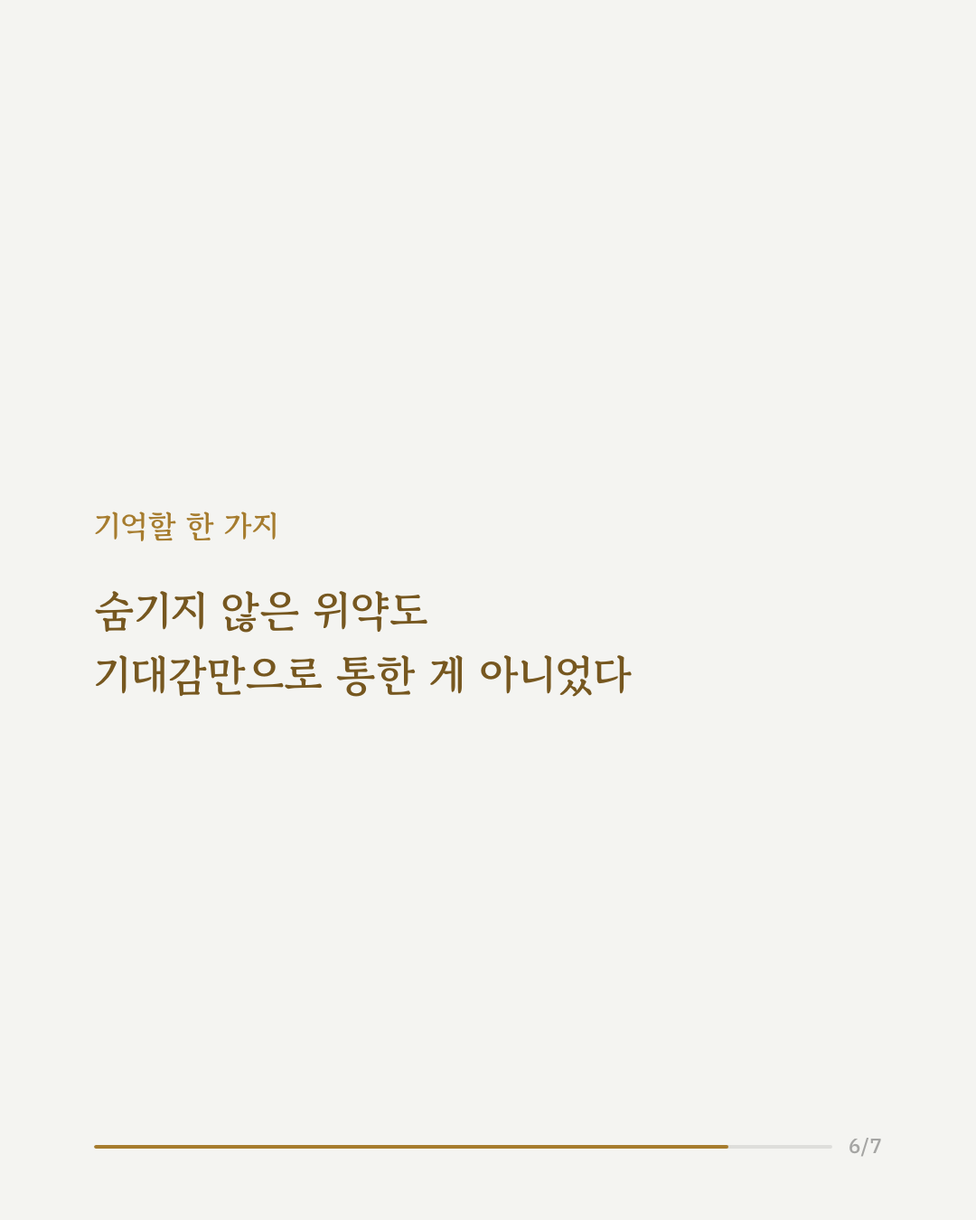
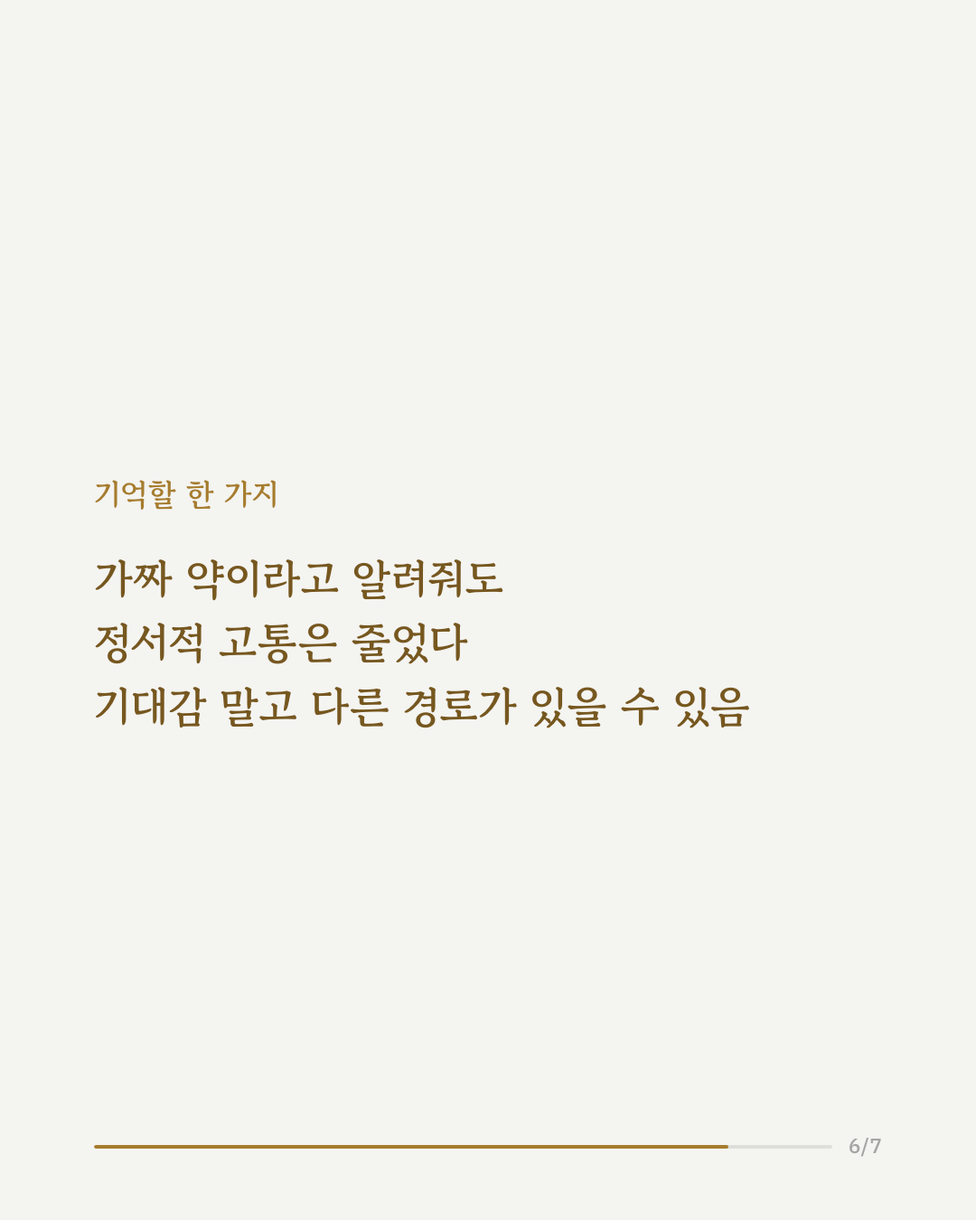
cards: review fixes

Changed region(s): [[0.0917, 0.3733, 0.7639, 0.5911]]

diff --git a/index.html b/index.html
@@ -9,4 +9,4 @@ a{font-size:18px;color:#8a3c24;text-decoration:none;display:block}
 .reel{background:#efe5d3;border:1px solid #e4d8c2;border-radius:8px;padding:12px 14px;margin-bottom:16px;font-size:14px}
 .reel a{display:inline;font-size:14px}
 code{background:#efe5d3;padding:2px 6px;border-radius:4px;user-select:all}</style></head><body>
-<h1>검수 대기열 (22)</h1><div class="reel">🎬 릴스 초안 대기 — <a href="41421461/reel.html">41421461 영상 보기</a> · 폰 앱에서 업로드(트렌딩 사운드)</div><ul><li><a href="41421461/preview.html">중독 겹쳤어도<br>약물치료 효과</a><span class="m">임상심리 · 9장 · <a href="https://pubmed.ncbi.nlm.nih.gov/41421461/" target="_blank" rel="noopener">PubMed</a> · <a href="https://doi.org/10.1016/j.jaac.2025.12.003" target="_blank" rel="noopener">원문(DOI)</a> · <code>python3 publish.py 41421461</code></span></li><li><a href="42087350/preview.html">정신과 이력과<br>산후우울증</a><span class="m">임상심리 · 10장 · <a href="https://pubmed.ncbi.nlm.nih.gov/42087350/" target="_blank" rel="noopener">PubMed</a> · <a href="https://doi.org/10.1192/bjp.2021.222" target="_blank" rel="noopener">원문(DOI)</a> · <code>python3 publish.py 42087350</code></span></li><li><a href="42231081/preview.html">니코틴 중독은<br>회로 하나로 통한다</a><span class="m">신경영상 · 9장 · <a href="https://pubmed.ncbi.nlm.nih.gov/42231081/" target="_blank" rel="noopener">PubMed</a> · <a href="https://doi.org/10.1016/j.drugalcdep.2019.07.001" target="_blank" rel="noopener">원문(DOI)</a> · <code>python3 publish.py 42231081</code></span></li><li><a href="42413809/preview.html">치료 반응을<br>뇌가 먼저 안다</a><span class="m">신경영상 · 9장 · <a href="https://pubmed.ncbi.nlm.nih.gov/42413809/" target="_blank" rel="noopener">PubMed</a> · <a href="https://doi.org/10.1016/j.biopsych.2026.06.027" target="_blank" rel="noopener">원문(DOI)</a> · <code>python3 publish.py 42413809</code></span></li><li><a href="42643655/preview.html">저녁형이면<br>우울도 높았다</a><span class="m">흥미기타 · 9장 · <a href="https://pubmed.ncbi.nlm.nih.gov/42643655/" target="_blank" rel="noopener">PubMed</a> · <a href="https://doi.org/10.3390/clockssleep7020026" target="_blank" rel="noopener">원문(DOI)</a> · <code>python3 publish.py 42643655</code></span></li><li><a href="42649240/preview.html">숨기지 않아도<br>듣는 위약효과</a><span class="m">흥미기타 · 8장 · <a href="https://pubmed.ncbi.nlm.nih.gov/42649240/" target="_blank" rel="noopener">PubMed</a> · <a href="https://doi.org/10.1038/s41598-024-79039-1" target="_blank" rel="noopener">원문(DOI)</a> · <code>python3 publish.py 42649240</code></span></li><li><a href="42660392/preview.html">생성형 AI<br>사용의 4가지 양상</a><span class="m">흥미기타 · 9장 · <a href="https://pubmed.ncbi.nlm.nih.gov/42660392/" target="_blank" rel="noopener">PubMed</a> · <a href="https://doi.org/10.1016/j.jad.2026.122428" target="_blank" rel="noopener">원문(DOI)</a> · <code>python3 publish.py 42660392</code></span></li><li><a href="42668096/preview.html">자살 시도<br>직전의 신호</a><span class="m">자해자살 · 10장 · <a href="https://pubmed.ncbi.nlm.nih.gov/42668096/" target="_blank" rel="noopener">PubMed</a> · <a href="https://doi.org/10.1016/j.jad.2026.122412" target="_blank" rel="noopener">원문(DOI)</a> · <code>python3 publish.py 42668096</code></span></li><li><a href="42712180/preview.html">PTSD 치료법<br>두 가지 비교</a><span class="m">임상심리 · 8장 · <a href="https://pubmed.ncbi.nlm.nih.gov/42712180/" target="_blank" rel="noopener">PubMed</a> · <a href="https://doi.org/10.1080/20008066.2026.2709751" target="_blank" rel="noopener">원문(DOI)</a> · <code>python3 publish.py 42712180</code></span></li><li><a href="42742576/preview.html">같은 정신증도<br>원인은 다르다</a><span class="m">임상심리 · 8장 · <a href="https://pubmed.ncbi.nlm.nih.gov/42742576/" target="_blank" rel="noopener">PubMed</a> · <a href="https://doi.org/10.1192/bjp.2024.175" target="_blank" rel="noopener">원문(DOI)</a> · <code>python3 publish.py 42742576</code></span></li><li><a href="42748514/preview.html">외모 비교를<br>끊어봤더니</a><span class="m">임상심리 · 9장 · <a href="https://pubmed.ncbi.nlm.nih.gov/42748514/" target="_blank" rel="noopener">PubMed</a> · <a href="https://doi.org/10.1016/j.brat.2026.105155" target="_blank" rel="noopener">원문(DOI)</a> · <code>python3 publish.py 42748514</code></span></li><li><a href="42754240/preview.html">돌봄이 달라지면<br>폭력이 줄었다</a><span class="m">임상심리 · 9장 · <a href="https://pubmed.ncbi.nlm.nih.gov/42754240/" target="_blank" rel="noopener">PubMed</a> · <a href="https://doi.org/10.1111/jcpp.70241" target="_blank" rel="noopener">원문(DOI)</a> · <code>python3 publish.py 42754240</code></span></li><li><a href="42759616/preview.html">우울증 약을<br>게임이 도왔다</a><span class="m">임상심리 · 10장 · <a href="https://pubmed.ncbi.nlm.nih.gov/42759616/" target="_blank" rel="noopener">PubMed</a> · <a href="https://doi.org/10.1016/j.jad.2026.122494" target="_blank" rel="noopener">원문(DOI)</a> · <code>python3 publish.py 42759616</code></span></li><li><a href="42766476/preview.html">진짜 진료실에서<br>노출치료 해보니</a><span class="m">임상심리 · 9장 · <a href="https://pubmed.ncbi.nlm.nih.gov/42766476/" target="_blank" rel="noopener">PubMed</a> · <a href="https://doi.org/10.1080/20008066.2026.2699492" target="_blank" rel="noopener">원문(DOI)</a> · <code>python3 publish.py 42766476</code></span></li><li><a href="42768792/preview.html">부모 교육<br>둘 다 잡는다</a><span class="m">임상심리 · 9장 · <a href="https://pubmed.ncbi.nlm.nih.gov/42768792/" target="_blank" rel="noopener">PubMed</a> · <a href="https://doi.org/10.1017/S0954579426101850" target="_blank" rel="noopener">원문(DOI)</a> · <code>python3 publish.py 42768792</code></span></li><li><a href="42773864/preview.html">위탁 양육이<br>지켜낸 집중력</a><span class="m">임상심리 · 9장 · <a href="https://pubmed.ncbi.nlm.nih.gov/42773864/" target="_blank" rel="noopener">PubMed</a> · <a href="https://doi.org/10.1017/S0954579426101928" target="_blank" rel="noopener">원문(DOI)</a> · <code>python3 publish.py 42773864</code></span></li><li><a href="42777181/preview.html">신경성 성격<br>6주 만에 바뀐다</a><span class="m">임상심리 · 9장 · <a href="https://pubmed.ncbi.nlm.nih.gov/42777181/" target="_blank" rel="noopener">PubMed</a> · <a href="https://doi.org/10.1177/09567976261476962" target="_blank" rel="noopener">원문(DOI)</a> · <code>python3 publish.py 42777181</code></span></li><li><a href="42778032/preview.html">직장인 스트레스,<br>명상으로 줄었다</a><span class="m">임상심리 · 9장 · <a href="https://pubmed.ncbi.nlm.nih.gov/42778032/" target="_blank" rel="noopener">PubMed</a> · <a href="https://doi.org/10.1016/j.jad.2026.122555" target="_blank" rel="noopener">원문(DOI)</a> · <code>python3 publish.py 42778032</code></span></li><li><a href="42778581/preview.html">덜 힘들었던<br>사람들의 뇌</a><span class="m">신경영상 · 10장 · <a href="https://pubmed.ncbi.nlm.nih.gov/42778581/" target="_blank" rel="noopener">PubMed</a> · <a href="https://doi.org/10.1016/j.apnu.2016.07.014" target="_blank" rel="noopener">원문(DOI)</a> · <code>python3 publish.py 42778581</code></span></li><li><a href="42779473/preview.html">위험한 생각의<br>세 갈래 길</a><span class="m">자해자살 · 10장 · <a href="https://pubmed.ncbi.nlm.nih.gov/42779473/" target="_blank" rel="noopener">PubMed</a> · <a href="https://doi.org/10.1017/S0033291726105716" target="_blank" rel="noopener">원문(DOI)</a> · <code>python3 publish.py 42779473</code></span></li><li><a href="42785384/preview.html">망상은 뇌의<br>어디서 생기나</a><span class="m">신경영상 · 9장 · <a href="https://pubmed.ncbi.nlm.nih.gov/42785384/" target="_blank" rel="noopener">PubMed</a> · <a href="https://doi.org/10.1016/j.jad.2026.122534" target="_blank" rel="noopener">원문(DOI)</a> · <code>python3 publish.py 42785384</code></span></li><li><a href="42787645/preview.html">9개월 이상<br>장기 정신역동치료</a><span class="m">임상심리 · 9장 · <a href="https://pubmed.ncbi.nlm.nih.gov/42787645/" target="_blank" rel="noopener">PubMed</a> · <a href="https://doi.org/10.32872/cpe.11971" target="_blank" rel="noopener">원문(DOI)</a> · <code>python3 publish.py 42787645</code></span></li></ul></body></html>
+<h1>검수 대기열 (22)</h1><div class="reel">🎬 릴스 초안 대기 — <a href="41421461/reel.html">41421461 영상 보기</a> · 폰 앱에서 업로드(트렌딩 사운드)</div><ul><li><a href="41421461/preview.html">중독 겹쳤어도<br>약물치료 효과</a><span class="m">임상심리 · 9장 · <a href="https://pubmed.ncbi.nlm.nih.gov/41421461/" target="_blank" rel="noopener">PubMed</a> · <a href="https://doi.org/10.1016/j.jaac.2025.12.003" target="_blank" rel="noopener">원문(DOI)</a> · <code>python3 publish.py 41421461</code></span></li><li><a href="42087350/preview.html">정신과 이력과<br>산후우울증</a><span class="m">임상심리 · 10장 · <a href="https://pubmed.ncbi.nlm.nih.gov/42087350/" target="_blank" rel="noopener">PubMed</a> · <a href="https://doi.org/10.1192/bjp.2021.222" target="_blank" rel="noopener">원문(DOI)</a> · <code>python3 publish.py 42087350</code></span></li><li><a href="42231081/preview.html">니코틴 중독은<br>회로 하나로 통한다</a><span class="m">신경영상 · 9장 · <a href="https://pubmed.ncbi.nlm.nih.gov/42231081/" target="_blank" rel="noopener">PubMed</a> · <a href="https://doi.org/10.1016/j.drugalcdep.2019.07.001" target="_blank" rel="noopener">원문(DOI)</a> · <code>python3 publish.py 42231081</code></span></li><li><a href="42413809/preview.html">치료 반응을<br>뇌가 먼저 안다</a><span class="m">신경영상 · 9장 · <a href="https://pubmed.ncbi.nlm.nih.gov/42413809/" target="_blank" rel="noopener">PubMed</a> · <a href="https://doi.org/10.1016/j.biopsych.2026.06.027" target="_blank" rel="noopener">원문(DOI)</a> · <code>python3 publish.py 42413809</code></span></li><li><a href="42643655/preview.html">저녁형이면<br>우울도 높았다</a><span class="m">흥미기타 · 9장 · <a href="https://pubmed.ncbi.nlm.nih.gov/42643655/" target="_blank" rel="noopener">PubMed</a> · <a href="https://doi.org/10.3390/clockssleep7020026" target="_blank" rel="noopener">원문(DOI)</a> · <code>python3 publish.py 42643655</code></span></li><li><a href="42649240/preview.html">숨기지 않아도 듣는<br>위약(플라시보) 효과</a><span class="m">흥미기타 · 8장 · <a href="https://pubmed.ncbi.nlm.nih.gov/42649240/" target="_blank" rel="noopener">PubMed</a> · <a href="https://doi.org/10.1038/s41598-024-79039-1" target="_blank" rel="noopener">원문(DOI)</a> · <code>python3 publish.py 42649240</code></span></li><li><a href="42660392/preview.html">생성형 AI<br>사용의 4가지 양상</a><span class="m">흥미기타 · 9장 · <a href="https://pubmed.ncbi.nlm.nih.gov/42660392/" target="_blank" rel="noopener">PubMed</a> · <a href="https://doi.org/10.1016/j.jad.2026.122428" target="_blank" rel="noopener">원문(DOI)</a> · <code>python3 publish.py 42660392</code></span></li><li><a href="42668096/preview.html">자살 시도<br>직전의 신호</a><span class="m">자해자살 · 10장 · <a href="https://pubmed.ncbi.nlm.nih.gov/42668096/" target="_blank" rel="noopener">PubMed</a> · <a href="https://doi.org/10.1016/j.jad.2026.122412" target="_blank" rel="noopener">원문(DOI)</a> · <code>python3 publish.py 42668096</code></span></li><li><a href="42712180/preview.html">PTSD 치료법<br>두 가지 비교</a><span class="m">임상심리 · 8장 · <a href="https://pubmed.ncbi.nlm.nih.gov/42712180/" target="_blank" rel="noopener">PubMed</a> · <a href="https://doi.org/10.1080/20008066.2026.2709751" target="_blank" rel="noopener">원문(DOI)</a> · <code>python3 publish.py 42712180</code></span></li><li><a href="42742576/preview.html">같은 정신증도<br>원인은 다르다</a><span class="m">임상심리 · 8장 · <a href="https://pubmed.ncbi.nlm.nih.gov/42742576/" target="_blank" rel="noopener">PubMed</a> · <a href="https://doi.org/10.1192/bjp.2024.175" target="_blank" rel="noopener">원문(DOI)</a> · <code>python3 publish.py 42742576</code></span></li><li><a href="42748514/preview.html">외모 비교를<br>끊어봤더니</a><span class="m">임상심리 · 9장 · <a href="https://pubmed.ncbi.nlm.nih.gov/42748514/" target="_blank" rel="noopener">PubMed</a> · <a href="https://doi.org/10.1016/j.brat.2026.105155" target="_blank" rel="noopener">원문(DOI)</a> · <code>python3 publish.py 42748514</code></span></li><li><a href="42754240/preview.html">돌봄이 달라지면<br>폭력이 줄었다</a><span class="m">임상심리 · 9장 · <a href="https://pubmed.ncbi.nlm.nih.gov/42754240/" target="_blank" rel="noopener">PubMed</a> · <a href="https://doi.org/10.1111/jcpp.70241" target="_blank" rel="noopener">원문(DOI)</a> · <code>python3 publish.py 42754240</code></span></li><li><a href="42759616/preview.html">우울증 약을<br>게임이 도왔다</a><span class="m">임상심리 · 10장 · <a href="https://pubmed.ncbi.nlm.nih.gov/42759616/" target="_blank" rel="noopener">PubMed</a> · <a href="https://doi.org/10.1016/j.jad.2026.122494" target="_blank" rel="noopener">원문(DOI)</a> · <code>python3 publish.py 42759616</code></span></li><li><a href="42766476/preview.html">진짜 진료실에서<br>노출치료 해보니</a><span class="m">임상심리 · 9장 · <a href="https://pubmed.ncbi.nlm.nih.gov/42766476/" target="_blank" rel="noopener">PubMed</a> · <a href="https://doi.org/10.1080/20008066.2026.2699492" target="_blank" rel="noopener">원문(DOI)</a> · <code>python3 publish.py 42766476</code></span></li><li><a href="42768792/preview.html">부모 교육<br>둘 다 잡는다</a><span class="m">임상심리 · 9장 · <a href="https://pubmed.ncbi.nlm.nih.gov/42768792/" target="_blank" rel="noopener">PubMed</a> · <a href="https://doi.org/10.1017/S0954579426101850" target="_blank" rel="noopener">원문(DOI)</a> · <code>python3 publish.py 42768792</code></span></li><li><a href="42773864/preview.html">위탁 양육이<br>지켜낸 집중력</a><span class="m">임상심리 · 9장 · <a href="https://pubmed.ncbi.nlm.nih.gov/42773864/" target="_blank" rel="noopener">PubMed</a> · <a href="https://doi.org/10.1017/S0954579426101928" target="_blank" rel="noopener">원문(DOI)</a> · <code>python3 publish.py 42773864</code></span></li><li><a href="42777181/preview.html">신경성 성격<br>6주 만에 바뀐다</a><span class="m">임상심리 · 9장 · <a href="https://pubmed.ncbi.nlm.nih.gov/42777181/" target="_blank" rel="noopener">PubMed</a> · <a href="https://doi.org/10.1177/09567976261476962" target="_blank" rel="noopener">원문(DOI)</a> · <code>python3 publish.py 42777181</code></span></li><li><a href="42778032/preview.html">직장인 스트레스,<br>명상으로 줄었다</a><span class="m">임상심리 · 9장 · <a href="https://pubmed.ncbi.nlm.nih.gov/42778032/" target="_blank" rel="noopener">PubMed</a> · <a href="https://doi.org/10.1016/j.jad.2026.122555" target="_blank" rel="noopener">원문(DOI)</a> · <code>python3 publish.py 42778032</code></span></li><li><a href="42778581/preview.html">덜 힘들었던<br>사람들의 뇌</a><span class="m">신경영상 · 10장 · <a href="https://pubmed.ncbi.nlm.nih.gov/42778581/" target="_blank" rel="noopener">PubMed</a> · <a href="https://doi.org/10.1016/j.apnu.2016.07.014" target="_blank" rel="noopener">원문(DOI)</a> · <code>python3 publish.py 42778581</code></span></li><li><a href="42779473/preview.html">위험한 생각의<br>세 갈래 길</a><span class="m">자해자살 · 10장 · <a href="https://pubmed.ncbi.nlm.nih.gov/42779473/" target="_blank" rel="noopener">PubMed</a> · <a href="https://doi.org/10.1017/S0033291726105716" target="_blank" rel="noopener">원문(DOI)</a> · <code>python3 publish.py 42779473</code></span></li><li><a href="42785384/preview.html">망상은 뇌의<br>어디서 생기나</a><span class="m">신경영상 · 9장 · <a href="https://pubmed.ncbi.nlm.nih.gov/42785384/" target="_blank" rel="noopener">PubMed</a> · <a href="https://doi.org/10.1016/j.jad.2026.122534" target="_blank" rel="noopener">원문(DOI)</a> · <code>python3 publish.py 42785384</code></span></li><li><a href="42787645/preview.html">9개월 이상<br>장기 정신역동치료</a><span class="m">임상심리 · 9장 · <a href="https://pubmed.ncbi.nlm.nih.gov/42787645/" target="_blank" rel="noopener">PubMed</a> · <a href="https://doi.org/10.32872/cpe.11971" target="_blank" rel="noopener">원문(DOI)</a> · <code>python3 publish.py 42787645</code></span></li></ul></body></html>

diff --git a/42643655/preview.html b/42643655/preview.html
@@ -15,6 +15,6 @@ details{color:#cbbfb4} summary{cursor:pointer}
 <div class="top"><span>저녁형이면 우울도 높았다</span><span>9장 · 흥미기타</span></div>
 <div class="gal"><img src="01.png" alt="슬라이드 1" loading="lazy"><img src="02.png" alt="슬라이드 2" loading="lazy"><img src="03.png" alt="슬라이드 3" loading="lazy"><img src="04.png" alt="슬라이드 4" loading="lazy"><img src="05.png" alt="슬라이드 5" loading="lazy"><img src="06.png" alt="슬라이드 6" loading="lazy"><img src="07.png" alt="슬라이드 7" loading="lazy"><img src="08.png" alt="슬라이드 8" loading="lazy"><img src="09.png" alt="슬라이드 9" loading="lazy"></div>
 <div class="bot">
-<details><summary>캡션 보기</summary><p style="font-size:13px;line-height:1.6">아침형이냐 저녁형이냐, 그리고 평일과 주말의 생활 리듬이 얼마나 다른지가 우울증과 불안, 스트레스와 관련 있다는 연구 결과가 나왔습니다. 대학생 734명을 대상으로 진행된 이번 연구는 기상·취침 시간, 식사 시간, 아침 결식 여부까지 폭넓게 조사했습니다.  분석 결과 평일과 주말의 수면 시간 차이, 이른바 사회적 시차가 1시간 늘어날 때마다 우울, 불안, 스트레스 위험이 함께 높아지는 것으로 나타났습니다. 저녁형 성향인 학생은 그렇지 않은 학생보다 우울 위험이 1.9배 가까이 높았습니다. 흥미로운 점은 이런 관련성이 성별에 따라 다르게 나타났다는 것인데, 사회적 시차와 우울의 관계는 남학생에서만, 저녁형과 우울·스트레스의 관계는 여학생에서만 뚜렷했습니다.  연구팀은 불규칙한 수면·식사 리듬이 청년층의 정신건강을 살피는 하나의 신호가 될 수 있다고 설명했습니다. 다만 이번 연구는 한 시점에서 설문으로 조사한 단면 연구라 리듬의 변화가 정신건강을 악화시켰는지, 반대로 정신건강이 나빠지며 리듬이 흐트러졌는지는 구분할 수 없습니다. 참가자도 대학생으로 한정돼 다른 연령대에 그대로 적용하기는 어렵습니다.  출처: Depression and Anxiety (2026), &#x27;The Relationship Between Indicators of Behavior Rhythmicity With Depression, Anxiety, and Stress Among Youths&#x27;  #임상심리 #정신건강정보 #심리학연구 #논문리뷰 #저녁형인간 #사회적시차 #대학생정신건강 #수면리듬</p></details>
+<details><summary>캡션 보기</summary><p style="font-size:13px;line-height:1.6">아침형이냐 저녁형이냐, 그리고 평일과 주말의 생활 리듬이 얼마나 다른지가 우울증과 불안, 스트레스와 관련 있다는 연구 결과가 나왔습니다. 대학생 734명을 대상으로 진행된 이번 연구는 기상·취침 시간, 식사 시간, 아침 결식 여부까지 폭넓게 조사했습니다.  분석 결과 평일과 주말의 수면 시간 차이, 이른바 사회적 시차가 1시간 늘어날 때마다 우울, 불안, 스트레스 위험이 함께 높아지는 것으로 나타났습니다. 저녁형 성향인 학생은 그렇지 않은 학생보다 우울 위험이 1.9배 가까이 높았습니다. 흥미로운 점은 이런 관련성이 성별에 따라 다르게 나타났다는 것인데, 사회적 시차와 우울의 관계는 남학생에서만, 저녁형과 우울·스트레스의 관계는 여학생에서만 뚜렷했습니다.  연구팀은 불규칙한 수면·식사 리듬이 청년층의 정신건강을 살피는 하나의 신호가 될 수 있다고 설명했습니다. 다만 이번 연구는 한 시점에서 설문으로 조사한 횡단 연구라 리듬의 변화가 정신건강을 악화시켰는지, 반대로 정신건강이 나빠지며 리듬이 흐트러졌는지는 구분할 수 없습니다. 참가자도 대학생으로 한정돼 다른 연령대에 그대로 적용하기는 어렵습니다.  출처: Depression and Anxiety (2026), &#x27;The Relationship Between Indicators of Behavior Rhythmicity With Depression, Anxiety, and Stress Among Youths&#x27;  #임상심리 #정신건강정보 #심리학연구 #논문리뷰 #저녁형인간 #사회적시차 #대학생정신건강 #수면리듬</p></details>
 <span>원문: <a href="https://pubmed.ncbi.nlm.nih.gov/42643655/" target="_blank" rel="noopener">PubMed</a> · <a href="https://doi.org/10.3390/clockssleep7020026" target="_blank" rel="noopener">원문(DOI)</a> · 승인: <code>python3 publish.py 42643655</code></span>
 </div></body></html>

diff --git a/42785384/preview.html b/42785384/preview.html
@@ -15,6 +15,6 @@ details{color:#cbbfb4} summary{cursor:pointer}
 <div class="top"><span>망상은 뇌의 어디서 생기나</span><span>9장 · 신경영상</span></div>
 <div class="gal"><img src="01.png" alt="슬라이드 1" loading="lazy"><img src="02.png" alt="슬라이드 2" loading="lazy"><img src="03.png" alt="슬라이드 3" loading="lazy"><img src="04.png" alt="슬라이드 4" loading="lazy"><img src="05.png" alt="슬라이드 5" loading="lazy"><img src="06.png" alt="슬라이드 6" loading="lazy"><img src="07.png" alt="슬라이드 7" loading="lazy"><img src="08.png" alt="슬라이드 8" loading="lazy"><img src="09.png" alt="슬라이드 9" loading="lazy"></div>
 <div class="bot">
-<details><summary>캡션 보기</summary><p style="font-size:13px;line-height:1.6">조현병 스펙트럼 장애를 관통하는 핵심 증상, 망상. 환청과 달리 망상이 뇌의 어느 네트워크와 연결되는지는 그동안 잘 밝혀지지 않았습니다.  연구팀은 먼저 신경영상 연구 44편을 체계적으로 검토해, 망상과 관련된 뇌 구조·기능 이상을 보고한 부위들을 모았습니다. 이후 이 부위들을 정상인의 안정 상태 뇌 연결망 데이터(두 개의 독립된 데이터셋)에 겹쳐, 망상과 연관된 세 가지 네트워크를 그려냈습니다.  구조 이상 네트워크와 과제 수행 중 활성 이상 네트워크는 배쪽주의망·몸감각운동망에서 겹치면서도, 각각 전두두정엽·등쪽주의망, 피질하·변연계 영역과 더 밀접했습니다. 반면 가만히 쉬고 있을 때의 활동 이상은 기본 상태 네트워크와 가장 많이 겹쳤습니다. 이를 바탕으로 우측 하전두회 판개부 등 세 부위가 향후 뇌자극 치료의 표적 후보로 제시됐습니다.  다만 이 연구는 기존 논문 속 좌표를 정상인의 뇌 지도에 겹쳐 본 간접적 분석으로, 실제 조현병 환자의 뇌를 직접 촬영해 검증한 결과는 아닙니다.  출처: Journal of Affective Disorders (2026), &#x27;Brain network localization of delusions&#x27;  #임상심리 #정신건강정보 #조현병 #망상 #뇌과학 #신경정신의학 #논문리뷰 #심리학연구</p></details>
+<details><summary>캡션 보기</summary><p style="font-size:13px;line-height:1.6">조현병 스펙트럼 장애를 관통하는 핵심 증상, 망상. 환청과 달리 망상이 뇌의 어느 네트워크와 연결되는지는 그동안 잘 밝혀지지 않았습니다.  연구팀은 먼저 신경영상 연구 44편을 체계적으로 검토해, 망상과 관련된 뇌 구조·기능 이상을 보고한 부위들을 모았습니다. 이후 이 부위들을 정상인의 안정 상태 뇌 연결망 데이터(두 개의 독립된 데이터셋)에 겹쳐, 망상과 연관된 세 가지 네트워크를 그려냈습니다.  구조 이상 네트워크와 과제 수행 중 활성 이상 네트워크는 배쪽 주의 네트워크·체성 감각운동 네트워크에서 겹치면서도, 각각 전두두정엽·등쪽주의망, 피질하·변연계 영역과 더 밀접했습니다. 반면 가만히 쉬고 있을 때의 활동 이상은 기본 상태 네트워크와 가장 많이 겹쳤습니다. 이를 바탕으로 우측 하전두회 판개부 등 세 부위가 향후 뇌자극 치료의 표적 후보로 제시됐습니다.  다만 이 연구는 기존 논문 속 좌표를 정상인의 뇌 지도에 겹쳐 본 간접적 분석으로, 실제 조현병 환자의 뇌를 직접 촬영해 검증한 결과는 아닙니다.  출처: Journal of Affective Disorders (2026), &#x27;Brain network localization of delusions&#x27;  #임상심리 #정신건강정보 #조현병 #망상 #뇌과학 #신경정신의학 #논문리뷰 #심리학연구</p></details>
 <span>원문: <a href="https://pubmed.ncbi.nlm.nih.gov/42785384/" target="_blank" rel="noopener">PubMed</a> · <a href="https://doi.org/10.1016/j.jad.2026.122534" target="_blank" rel="noopener">원문(DOI)</a> · 승인: <code>python3 publish.py 42785384</code></span>
 </div></body></html>

diff --git a/42660392/preview.html b/42660392/preview.html
@@ -15,6 +15,6 @@ details{color:#cbbfb4} summary{cursor:pointer}
 <div class="top"><span>생성형 AI 사용의 4가지 양상</span><span>9장 · 흥미기타</span></div>
 <div class="gal"><img src="01.png" alt="슬라이드 1" loading="lazy"><img src="02.png" alt="슬라이드 2" loading="lazy"><img src="03.png" alt="슬라이드 3" loading="lazy"><img src="04.png" alt="슬라이드 4" loading="lazy"><img src="05.png" alt="슬라이드 5" loading="lazy"><img src="06.png" alt="슬라이드 6" loading="lazy"><img src="07.png" alt="슬라이드 7" loading="lazy"><img src="08.png" alt="슬라이드 8" loading="lazy"><img src="09.png" alt="슬라이드 9" loading="lazy"></div>
 <div class="bot">
-<details><summary>캡션 보기</summary><p style="font-size:13px;line-height:1.6">생성형 AI를 쓰는 대학생이라고 다 같지 않습니다. 최근 연구는 대학생 5,748명을 대상으로 AI 사용 방식을 살펴봤는데, 사용 빈도가 아니라 &#x27;왜, 어떻게&#x27; 쓰는지에 따라 우울과 불안 수준이 크게 갈렸습니다.  분석 결과 사용자는 네 유형으로 나뉘었습니다. AI 리터러시가 높고 도구적으로 활용하는 &#x27;합리적 도구형&#x27;이 가장 안정적인 결과를 보인 반면, 현실 도피 동기가 강하고 AI 의존도가 높은 &#x27;문제적 의존형&#x27;(전체의 15%)은 우울과 불안이 가장 높았습니다. 이 유형은 스마트폰 중독, 실행기능 어려움과도 관련이 있었습니다.  연구팀은 AI를 단순히 얼마나 자주 쓰는지가 아니라, 사용 동기와 리터러시, 의존도를 중심으로 봐야 한다고 제안합니다. 다만 이 연구는 대학생만을 한 시점에서 조사한 결과라, 다른 집단에도 그대로 적용되는지와 인과 방향은 확실하지 않습니다.  출처: Journal of Affective Disorders (2026), &#x27;Latent profiles of generative artificial intelligence use among Chinese college students: Associations with depression and anxiety&#x27;  #임상심리 #정신건강정보 #대학생심리 #디지털의존 #심리학연구 #생성형AI #AI의존 #대학생정신건강</p></details>
+<details><summary>캡션 보기</summary><p style="font-size:13px;line-height:1.6">생성형 AI를 쓰는 대학생이라고 다 같지 않습니다. 최근 연구는 대학생 5,748명을 대상으로 AI 사용 방식을 살펴봤는데, 사용 빈도가 아니라 &#x27;왜, 어떻게&#x27; 쓰는지에 따라 우울과 불안 수준이 크게 갈렸습니다.  분석 결과 사용자는 &#x27;합리적 도구형&#x27;, &#x27;적당한 여가형&#x27;, &#x27;문제적 의존형&#x27;, &#x27;가벼운 탐색형&#x27; 네 유형으로 나뉘었습니다. AI 리터러시가 높고 도구적으로 활용하는 &#x27;합리적 도구형&#x27;이 가장 안정적인 결과를 보인 반면, 현실 도피 동기가 강하고 AI 의존도가 높은 &#x27;문제적 의존형&#x27;(전체의 15%)은 우울과 불안이 가장 높았습니다. 이 유형은 스마트폰 중독, 실행기능 어려움과도 관련이 있었습니다.  연구팀은 AI를 단순히 얼마나 자주 쓰는지가 아니라, 사용 동기와 리터러시, 의존도를 중심으로 봐야 한다고 제안합니다. 다만 이 연구는 대학생만을 한 시점에서 조사한 결과라, 다른 집단에도 그대로 적용되는지와 인과 방향은 확실하지 않습니다.  출처: Journal of Affective Disorders (2026), &#x27;Latent profiles of generative artificial intelligence use among Chinese college students: Associations with depression and anxiety&#x27;  #임상심리 #정신건강정보 #대학생심리 #디지털의존 #심리학연구 #생성형AI #AI의존 #대학생정신건강</p></details>
 <span>원문: <a href="https://pubmed.ncbi.nlm.nih.gov/42660392/" target="_blank" rel="noopener">PubMed</a> · <a href="https://doi.org/10.1016/j.jad.2026.122428" target="_blank" rel="noopener">원문(DOI)</a> · 승인: <code>python3 publish.py 42660392</code></span>
 </div></body></html>

diff --git a/42779473/preview.html b/42779473/preview.html
@@ -15,6 +15,6 @@ details{color:#cbbfb4} summary{cursor:pointer}
 <div class="top"><span>위험한 생각의 세 갈래 길</span><span>10장 · 자해자살</span></div>
 <div class="gal"><img src="01.png" alt="슬라이드 1" loading="lazy"><img src="02.png" alt="슬라이드 2" loading="lazy"><img src="03.png" alt="슬라이드 3" loading="lazy"><img src="04.png" alt="슬라이드 4" loading="lazy"><img src="05.png" alt="슬라이드 5" loading="lazy"><img src="06.png" alt="슬라이드 6" loading="lazy"><img src="07.png" alt="슬라이드 7" loading="lazy"><img src="08.png" alt="슬라이드 8" loading="lazy"><img src="09.png" alt="슬라이드 9" loading="lazy"><img src="10.png" alt="슬라이드 10" loading="lazy"></div>
 <div class="bot">
-<details><summary>캡션 보기</summary><p style="font-size:13px;line-height:1.6">청소년의 우울증과 자살 생각은 흔히 함께 나타나지만, 그 생각이 시간이 지나며 어떻게 달라지는지는 잘 알려져 있지 않았습니다. 텍사스 청소년 우울·자살 연구네트워크는 자살 생각이 있는 청소년 1,449명을 6개월간 추적해 이 흐름을 살펴봤습니다.  그 결과 생각이 전혀 없었던 그룹, 낮은 수준으로 유지된 그룹, 높은 수준이 계속된 그룹까지 뚜렷이 다른 세 가지 흐름이 확인됐습니다. 초기 우울감, 절망감, 무력감, 사회적 지지 부족 정도를 물은 설문에 임상 면담 결과를 더하자, 6개월 뒤 어느 흐름으로 갈지 상당히 정확하게 예측할 수 있었습니다.  다만 이번 연구는 텍사스의 한 연구망에 등록된 청소년을 대상으로 했고, 참가자 대부분이 여성이었다는 점은 고려할 필요가 있습니다. 추적 기간도 6개월로 비교적 짧았습니다.  출처: Psychological Medicine (2026), &#x27;Predictors of trajectories of suicidal thoughts in Texas youth depression and suicide research network youth&#x27;  힘든 마음이 들 때는 자살예방상담전화 109, 정신건강상담전화 1577-0199에서 도움을 받을 수 있습니다.  #임상심리 #청소년정신건강 #자살예방연구 #정신건강연구 #청소년자살예방 #청소년심리 #위기평가</p></details>
+<details><summary>캡션 보기</summary><p style="font-size:13px;line-height:1.6">청소년의 우울증과 자살 생각은 흔히 함께 나타나지만, 그 생각이 시간이 지나며 어떻게 달라지는지는 잘 알려져 있지 않았습니다. 텍사스 청소년 우울·자살 연구 네트워크는 자살 생각이 있는 청소년 1,449명을 6개월간 추적해 이 흐름을 살펴봤습니다.  그 결과 생각이 전혀 없었던 그룹, 낮은 수준으로 유지된 그룹, 높은 수준이 계속된 그룹까지 뚜렷이 다른 세 가지 흐름이 확인됐습니다. 초기 우울감, 절망감, 무력감, 사회적 지지 부족 정도를 물은 설문에 임상 면담 결과를 더하자, 6개월 뒤 어느 흐름으로 갈지 상당히 정확하게 예측할 수 있었습니다.  다만 이번 연구는 텍사스의 한 연구망에 등록된 청소년을 대상으로 했고, 참가자 대부분이 여성이었다는 점은 고려할 필요가 있습니다. 추적 기간도 6개월로 비교적 짧았습니다.  출처: Psychological Medicine (2026), &#x27;Predictors of trajectories of suicidal thoughts in Texas youth depression and suicide research network youth&#x27;  힘든 마음이 들 때는 자살예방상담전화 109, 정신건강상담전화 1577-0199에서 도움을 받을 수 있습니다.  #임상심리 #청소년정신건강 #자살예방연구 #정신건강연구 #청소년자살예방 #청소년심리 #위기평가</p></details>
 <span>원문: <a href="https://pubmed.ncbi.nlm.nih.gov/42779473/" target="_blank" rel="noopener">PubMed</a> · <a href="https://doi.org/10.1017/S0033291726105716" target="_blank" rel="noopener">원문(DOI)</a> · 승인: <code>python3 publish.py 42779473</code></span>
 </div></body></html>

diff --git a/42649240/preview.html b/42649240/preview.html
@@ -1,6 +1,6 @@
 <!doctype html><html lang=ko><head><meta charset=utf-8>
 <meta name=viewport content="width=device-width,initial-scale=1,viewport-fit=cover">
-<title>숨기지 않아도 듣는 위약효과 · 검수</title><style>
+<title>숨기지 않아도 듣는 위약(플라시보) 효과 · 검수</title><style>
 *{box-sizing:border-box} body{margin:0;background:#241c17;font-family:-apple-system,'Apple SD Gothic Neo',sans-serif;color:#eee}
 .top,.bot{position:fixed;left:0;right:0;z-index:5;padding:11px 16px;background:rgba(0,0,0,.6);
   backdrop-filter:blur(6px);font-size:14px;display:flex;justify-content:space-between;gap:10px}
@@ -12,7 +12,7 @@ code{background:#3a2f27;padding:2px 7px;border-radius:5px;color:#e0a58b;user-sel
 details{color:#cbbfb4} summary{cursor:pointer}
 .bot a{color:#e0a58b}
 </style></head><body>
-<div class="top"><span>숨기지 않아도 듣는 위약효과</span><span>8장 · 흥미기타</span></div>
+<div class="top"><span>숨기지 않아도 듣는 위약(플라시보) 효과</span><span>8장 · 흥미기타</span></div>
 <div class="gal"><img src="01.png" alt="슬라이드 1" loading="lazy"><img src="02.png" alt="슬라이드 2" loading="lazy"><img src="03.png" alt="슬라이드 3" loading="lazy"><img src="04.png" alt="슬라이드 4" loading="lazy"><img src="05.png" alt="슬라이드 5" loading="lazy"><img src="06.png" alt="슬라이드 6" loading="lazy"><img src="07.png" alt="슬라이드 7" loading="lazy"><img src="08.png" alt="슬라이드 8" loading="lazy"></div>
 <div class="bot">
 <details><summary>캡션 보기</summary><p style="font-size:13px;line-height:1.6">가짜 약인 걸 알려줘도 통증이나 불안이 줄어드는 &#x27;위약(플라시보) 효과&#x27;가 실제로 나타납니다. 이런 공개 위약이 왜 생기는지는 아직 명확하지 않습니다.  전통적으로 몰래 주는 위약은 &#x27;효과가 있을 것&#x27;이라는 기대감이 핵심이라고 여겨졌고, 이 기대감은 뇌의 전전두피질과 관련 있다고 알려져 있습니다. 연구팀은 이 부위에 전기 자극(tDCS)을 가해, 공개 위약도 같은 방식으로 기대감을 통해 작동하는지 실험했습니다.  112명을 공개 위약 안내를 받은 집단과 안내를 받지 않은 대조군으로 나누고, 정서적으로 힘든 사진을 보여주면서 모든 참가자에게 진짜 자극과 가짜 자극을 각각 경험하게 했습니다. 그 결과 가짜 자극 상태에서도 위약군의 정서적 고통은 줄었지만, 진짜 자극은 대조군의 고통만 줄였을 뿐 위약군의 효과를 더 키우지는 않았습니다.  이는 공개 위약이 전통적인 위약처럼 기대감만으로 설명되지 않으며, 다른 심리적 경로로 작동할 가능성을 보여줍니다. 다만 이번 실험은 정서적 사진을 이용한 단기 실험 상황으로, 실제 임상 통증이나 질환에도 같은 결과가 나타나는지는 추가 연구가 필요합니다.  출처: Neuropsychopharmacology (2026), &#x27;Effects of prefrontal transcranial direct current stimulation on open-label placebo responses&#x27;  #위약효과 #플라시보효과 #뇌과학 #심리학연구 #임상심리 #정신건강정보 #논문리뷰</p></details>
